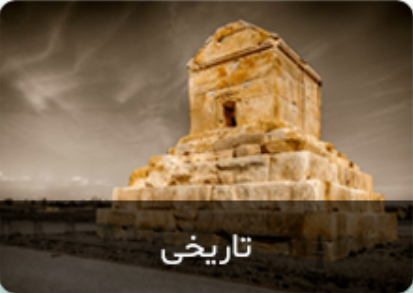
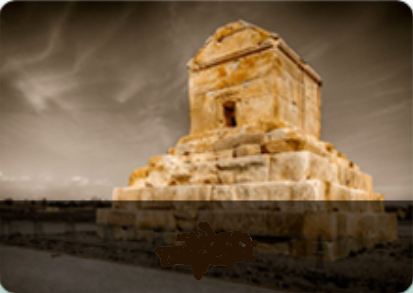
edit images hover and buttons

Changed region(s): [[0.3777, 0.7679, 0.6102, 0.9215], [0.4649, 0.9215, 0.4939, 0.9522]]

diff --git a/index.html b/index.html
@@ -228,21 +228,21 @@
                                     type="button">دانلود</button>
                             </div>
                             <p class="mt-5 mt-sm-5">یا از یکی از روشهای زیر اپلیکیشن جاسترو رو دانلود کنید</p>
-                            <div class="col-6 col-sm-5 col-md-12 mx-auto d-md-flex justify-content-center">
+                            <div class="col-8 col-sm-6 col-md-12 mx-auto d-md-flex justify-content-center">
                                 <button
-                                    class="col-10 col-sm-10 col-md-4 col-xl-3 col-fluid-2 mb-4 mb-md-0 mx-auto mx-sm-auto mx-md-3 d-flex align-items-center justify-content-center play-store"
+                                    class="col-12 col-sm-10 col-md-4 col-lg-5 col-xl-4 col-fluid-2 mb-4 mb-md-0 mx-auto mx-sm-auto mx-md-3 px-lg-0 d-flex align-items-center justify-content-center play-store"
                                     type="button">
                                     <i class="fas fa-download fa-2x ml-2"></i>
                                     دانلود مستقیم
                                 </button>
                                 <button
-                                    class="col-10 col-sm-10 col-md-4 col-xl-3 col-fluid-2 mb-4 mb-md-0 mx-auto mx-sm-auto mx-md-3 d-flex align-items-center justify-content-center play-store"
+                                    class="col-12 col-sm-10 col-md-4 col-lg-5 col-xl-4 col-fluid-2 mb-4 mb-md-0 mx-auto mx-sm-auto mx-md-3 d-flex align-items-center justify-content-center play-store"
                                     type="button">
                                     <i class="fab fa-google-play fa-2x ml-2"></i>
                                     google play
                                 </button>
                                 <button
-                                    class="col-10 col-sm-10 col-md-4 col-xl-3 col-fluid-2 mb-4 mb-md-0 mx-auto mx-sm-auto mx-md-3 d-flex align-items-center justify-content-center play-store"
+                                    class="col-12 col-sm-10 col-md-4 col-lg-5 col-xl-4 col-fluid-2 mb-4 mb-md-0 mx-auto mx-sm-auto mx-md-3 d-flex align-items-center justify-content-center play-store"
                                     type="button">
                                     <img class=" ml-2 px-0 bazar-icon" src="./assets/bazar-icon.png" alt="">
                                     کافه بازار
@@ -285,11 +285,26 @@
 
                 </div>
                 <div class="col-lg-12 my-5 d-flex images">
-                    <img src="./assets/tafrihi image.PNG" alt="">
-                    <img src="./assets/tarikh image.PNG" alt="">
-                    <img src="./assets/bastani image.PNG" alt="">
-                    <img src="./assets/tabiat image.PNG" alt="">
-                    <img src="./assets/study image.PNG" alt="">
+                    <div class="image">
+                        <img src="./assets/tafrihi image.PNG" alt="">
+                        <div class="image-hover"><p>تفریحی</p></div>
+                    </div>
+                    <div class="image">
+                        <img src="./assets/tarikh image.PNG" alt="">
+                        <div class="image-hover"><p>تاریخی</p></div>
+                    </div>
+                    <div class="image">
+                        <img src="./assets/bastani image.PNG" alt="">
+                        <div class="image-hover"><p>باستانی</p></div>
+                    </div>
+                    <div class="image">
+                        <img src="./assets/tabiat image.PNG" alt="">
+                        <div class="image-hover"><p>طبیعت</p></div>
+                    </div>
+                    <div class="image">
+                        <img src="./assets/study image.PNG" alt="">
+                        <div class="image-hover"><p>مطالعه</p></div>
+                    </div>
                 </div>
                 <div class="col-lg-12 px-lg-0 px-xl-5">
                     <p>ایده های جدید رو هفتگی دریافت کن
@@ -313,7 +328,7 @@
                 </div>
                 <div
                     class="d-none d-lg-flex flex-lg-column col-lg-2 px-lg-0 mb-0 justify-content-end align-items-center">
-                    <i class="fas fa-globe-americas fa-3x"></i>
+                    <i class="fas fa-globe-americas fa-3x" style="color: #007f90;"></i>
                     <p style="font-size: 12px; text-align: center;">کلیه حقوق این وبسایت متعلق به جاسترو بوده
                         و هرگونه استفاده از محتویات آن غیر مجاز است.</p>
                 </div>

diff --git a/sass/main.scss b/sass/main.scss
@@ -341,6 +341,31 @@ h3, h4{
         height: 150px;
         margin: 0 10px;
     }
+    .image-hover{
+        display: none;
+    }
+    .image-hover p{
+        color: white;
+        margin-top: auto;
+        opacity: 1;
+    }
+}
+.images .image:hover{
+    .image-hover{
+        display: block;
+        position: absolute;
+        width: 200px;
+        height: 50px;
+        opacity: 0.6;
+        background-color: #000000;
+        z-index: 10;
+        margin: -50px 10px 0px;
+        display: flex;
+        align-items: center;
+        justify-content: center;
+        border-bottom-right-radius: 7px;
+        border-bottom-left-radius: 7px;
+    }
 }
 @media screen and (max-width: 576px) {
     .mobile{

diff --git a/css/main.css b/css/main.css
@@ -348,6 +348,32 @@ h3, h4 {
   margin: 0 10px;
 }
 
+.images .image-hover {
+  display: none;
+}
+
+.images .image-hover p {
+  color: white;
+  margin-top: auto;
+  opacity: 1;
+}
+
+.images .image:hover .image-hover {
+  display: block;
+  position: absolute;
+  width: 200px;
+  height: 50px;
+  opacity: 0.6;
+  background-color: #000000;
+  z-index: 10;
+  margin: -50px 10px 0px;
+  display: flex;
+  align-items: center;
+  justify-content: center;
+  border-bottom-right-radius: 7px;
+  border-bottom-left-radius: 7px;
+}
+
 @media screen and (max-width: 576px) {
   .mobile {
     max-height: 650px;
